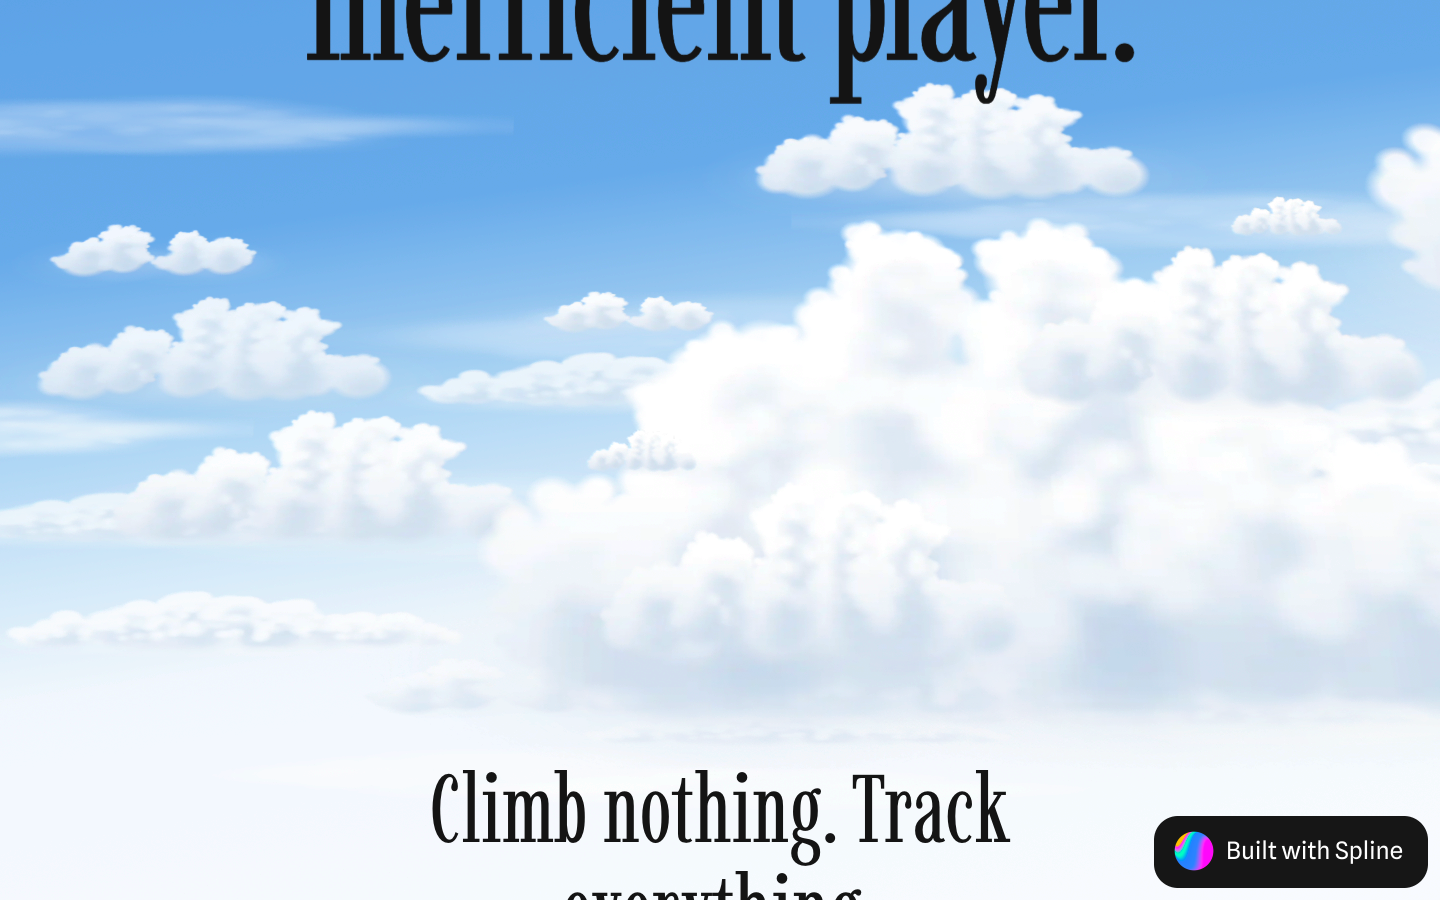
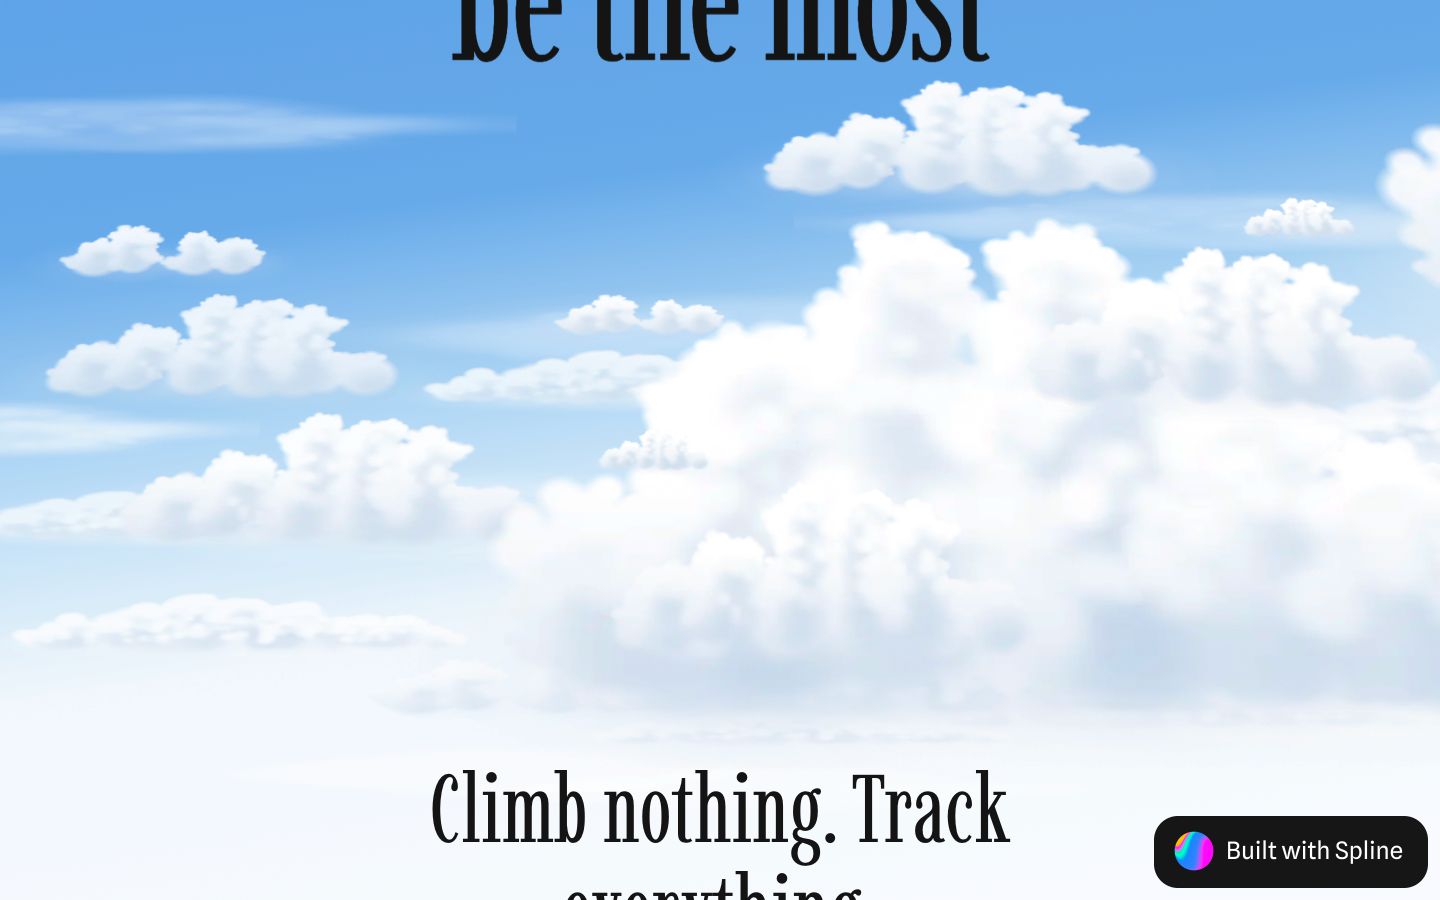
Intro: Scroll label, first line after scroll, lines held in order

diff --git a/src/intro.js b/src/intro.js
@@ -31,37 +31,78 @@ export function initIntro() {
     root.style.scrollBehavior = '';
   }
 
-  // Intro text: one part at a time, revealed when its stretch of the intro reaches the middle of the screen.
-  // The intro is split into one invisible "step" per part. An IntersectionObserver watches a thin
-  // line across the middle of the screen; whichever step crosses it decides the visible part.
-  // The reveal itself is a CSS animation (intro.css) and replays every time a part comes back.
+  // Intro text. Nothing shows at the very top except the "Scroll" label.
+  // After the first scroll the parts play strictly in order, one at a time.
+  // Each part gets its reveal plus a short hold before the next may start,
+  // even if the scrollbar is already further down. Scrolling is never blocked.
   const intro = document.getElementById('intro');
   const parts = Array.from(document.querySelectorAll('.intro__part'));
   if (intro && parts.length && !reduced) {
-    let current = -1;
-    const showPart = (index) => {
-      if (index === current) return;
+    const ms = (name) => parseFloat(getComputedStyle(root).getPropertyValue(name)) || 0;
+    const REVEAL_MS = ms('--delay-part-in') + ms('--duration-part-in');
+    const HOLD_MS = ms('--duration-part-hold');
+    const TOP_PX = 8; // closer to the top than this counts as "not scrolled yet"
+
+    let shown = -1;   // part on screen now (-1 = none, the label shows)
+    let target = -1;  // part the scroll position asks for
+    let freeAt = 0;   // time when the part on screen has had its reveal and hold
+    let timer = null;
+
+    const render = (index) => {
       parts.forEach((part, i) => {
-        part.classList.toggle('is-out', i === current);
+        part.classList.toggle('is-out', i === shown && i !== index);
         part.classList.toggle('is-in', i === index);
       });
-      current = index;
+      if (hint) hint.classList.toggle('is-hidden', index !== -1);
+      shown = index;
     };
-    const stepObserver = new IntersectionObserver((entries) => {
-      entries.forEach((entry) => {
-        if (entry.isIntersecting) showPart(Number(entry.target.dataset.part));
+
+    const advance = () => {
+      clearTimeout(timer);
+      if (target === shown) return;
+      const now = performance.now();
+      if (target < shown) {
+        // Scrolling back up: go straight there.
+        render(target);
+        freeAt = target === -1 ? now : now + REVEAL_MS + HOLD_MS;
+        return;
+      }
+      if (now < freeAt) { timer = setTimeout(advance, freeAt - now); return; }
+      render(shown + 1); // forward: one part at a time, never a jump
+      freeAt = now + REVEAL_MS + HOLD_MS;
+      if (target !== shown) timer = setTimeout(advance, REVEAL_MS + HOLD_MS);
+    };
+
+    const readScroll = () => {
+      const y = window.scrollY;
+      const height = intro.offsetHeight;
+      if (y >= height) {
+        // The intro has left the screen: nothing to play, rest on the last part.
+        clearTimeout(timer);
+        target = parts.length - 1;
+        if (shown !== target) render(target);
+        freeAt = 0;
+        return;
+      }
+      target = y < TOP_PX ? -1 : Math.min(parts.length - 1, Math.floor((y + window.innerHeight / 2) / (height / parts.length)));
+      advance();
+    };
+
+    let queued = false;
+    window.addEventListener('scroll', () => {
+      if (queued) return;
+      queued = true;
+      requestAnimationFrame(() => { queued = false; readScroll(); });
+    }, { passive: true });
+    readScroll();
+
+    // Clicking the label does what it says: scrolls a little, which starts the first part.
+    if (hint) {
+      hint.addEventListener('click', (event) => {
+        event.preventDefault();
+        window.scrollTo({ top: window.innerHeight * 0.3, behavior: 'smooth' });
       });
-    }, { rootMargin: '-50% 0px -50% 0px', threshold: 0 });
-    parts.forEach((part, i) => {
-      const step = document.createElement('div');
-      step.className = 'intro__step';
-      step.dataset.part = String(i);
-      step.style.top = `${(100 / parts.length) * i}%`;
-      step.style.height = `${100 / parts.length}%`;
-      step.setAttribute('aria-hidden', 'true');
-      intro.appendChild(step);
-      stepObserver.observe(step);
-    });
+    }
   }
 
   // Hero reached: show the nav, hide "Skip intro", remember the visit.
@@ -100,13 +141,11 @@ export function initIntro() {
     idleTimer = setTimeout(playDip, IDLE_MS);
   }
 
-  // First scroll: hide the hint and call off the dip. Reduced motion keeps the hint.
+  // First scroll: call off the dip.
   const onFirstScroll = () => {
     if (window.scrollY < 2) return;
     window.removeEventListener('scroll', onFirstScroll);
     cancelDip();
-    if (hint && !reduced) hint.classList.add('is-hidden');
   };
   window.addEventListener('scroll', onFirstScroll, { passive: true });
-  if (returning && hint && !reduced) hint.classList.add('is-hidden');
 }

diff --git a/src/styles/sections/intro.css b/src/styles/sections/intro.css
@@ -52,13 +52,13 @@
 }
 .is-past-intro .skip-intro { visibility: hidden; }
 
-/* Scroll hint: a link to #hero at the bottom of the stage */
+/* Scroll label: a small pill. Default spot is the bottom of the stage
+   (reduced motion and no JS, where the text fills the middle). */
 .intro__hint {
   position: absolute;
   left: 50%;
   bottom: var(--space-8);
   transform: translateX(-50%);
-  min-height: var(--size-touch-target);
   color: var(--color-intro-text);
   font-size: var(--text-label);
   font-weight: var(--weight-medium);
@@ -67,16 +67,17 @@
   transition: opacity var(--duration-fast) var(--ease-exit), visibility var(--duration-fast);
 }
 .intro__hint.is-hidden { opacity: 0; visibility: hidden; }
-.intro__hint-inner { display: flex; flex-direction: column; align-items: center; gap: var(--space-3); }
-.intro__hint-variant { display: flex; flex-direction: column; align-items: center; gap: var(--space-3); }
-.intro__hint-variant--touch { display: none; }
-.intro__hint svg { width: var(--size-hint-icon-w); height: var(--size-hint-icon-h); fill: none; stroke: currentColor; stroke-width: var(--size-stroke); stroke-linecap: round; stroke-linejoin: round; }
-.intro__hint .hint-dot { fill: currentColor; stroke: none; }
-
-@media (hover: none) and (pointer: coarse) {
-  .intro__hint-variant--mouse { display: none; }
-  .intro__hint-variant--touch { display: flex; }
+.intro__hint-inner {
+  display: inline-flex;
+  align-items: center;
+  gap: var(--space-2);
+  min-height: var(--size-touch-target);
+  padding: var(--space-2) var(--space-5);
+  background: var(--color-label-bg);
+  border-radius: var(--radius-chip);
+  box-shadow: var(--shadow-card);
 }
+.intro__hint svg { width: var(--size-hint-icon); height: var(--size-hint-icon); fill: none; stroke: currentColor; stroke-width: var(--size-stroke); stroke-linecap: round; stroke-linejoin: round; }
 
 @keyframes intro-fade-in { from { opacity: 0; } to { opacity: 1; } }
 @keyframes intro-part-in {
@@ -84,8 +85,7 @@
   to { opacity: 1; transform: translateY(0); filter: blur(0); }
 }
 @keyframes intro-part-out { from { opacity: 1; } to { opacity: 0; } }
-@keyframes hint-wheel { 0% { transform: translateY(0); opacity: 1; } 70% { transform: translateY(var(--size-hint-travel)); opacity: 0; } 100% { transform: translateY(0); opacity: 0; } }
-@keyframes hint-swipe { 0% { transform: translateY(var(--size-hint-travel)); opacity: 0; } 30% { opacity: 1; } 100% { transform: translateY(0); opacity: 0; } }
+@keyframes hint-float { from { transform: translateY(calc(var(--shift-hint-float) * -1)); } to { transform: translateY(var(--shift-hint-float)); } }
 
 /* Staged mode */
 @media (prefers-reduced-motion: no-preference) {
@@ -100,17 +100,11 @@
   .js .intro__part.is-in { animation: intro-part-in var(--duration-part-in) var(--ease-enter) var(--delay-part-in) both; }
   .js .intro__part.is-out { animation: intro-part-out var(--duration-part-out) var(--ease-exit) both; }
 
-  /* Invisible markers, one per part, that intro.js watches to know which part is due */
-  .intro__step { position: absolute; left: 0; width: 100%; pointer-events: none; }
-
-  /* Hint fades in after part 1 on a first visit */
-  .js:not(.intro-seen) .intro__hint-inner {
-    opacity: 0;
-    animation: intro-fade-in var(--duration-intro-hint-fade) var(--ease-standard) var(--duration-intro-hint-delay) forwards;
+  /* Scroll label: floats in the middle of the empty sky until the first scroll */
+  .js .intro__hint { bottom: auto; top: 50%; transform: translate(-50%, -50%); }
+  .js .intro__hint-inner {
+    animation:
+      intro-fade-in var(--duration-intro-hint-fade) var(--ease-standard) var(--duration-intro-hint-delay) backwards,
+      hint-float var(--duration-hint-float) ease-in-out infinite alternate;
   }
-  /* Keyboard users who Tab to the hint early see it at once */
-  .js:not(.intro-seen) .intro__hint:focus-visible .intro__hint-inner { animation: none; opacity: 1; }
-
-  .hint-dot { animation: hint-wheel var(--duration-hint-loop) var(--ease-standard) infinite; }
-  .intro__hint-variant--touch .hint-dot { animation-name: hint-swipe; }
 }

diff --git a/src/styles/tokens.css b/src/styles/tokens.css
@@ -15,6 +15,7 @@
   --color-cta-text: #141414;
   --color-focus-ring: #141414;
   --color-intro-text: #141414;      /* text on the sky; checked for AA against the scene */
+  --color-label-bg: rgba(255, 255, 255, 0.72); /* Scroll label pill over the sky */
 
   /* Type scale (fluid between phone and desktop) */
   --text-display: clamp(3.5rem, 1rem + 11vw, 12rem);     /* intro parts */
@@ -64,8 +65,9 @@
   --duration-part-out: 200ms;              /* the old part giving way */
   --duration-crossfade: 400ms;             /* static image to live scene */
   --duration-intro-hint-fade: 250ms;
-  --duration-intro-hint-delay: 1850ms;     /* part 1 reveal (0.25 + 0.8 s) + 0.8 s */
-  --duration-hint-loop: 1600ms;            /* wheel dot / swipe loop */
+  --duration-intro-hint-delay: 300ms;      /* Scroll label appears just after load */
+  --duration-hint-float: 3000ms;           /* one bob of the Scroll label */
+  --duration-part-hold: 700ms;             /* a part stays at least this long once fully shown (read by intro.js) */
   --ease-standard: cubic-bezier(0.2, 0, 0, 1);
   --ease-enter: cubic-bezier(0.22, 1, 0.36, 1);    /* fast start, soft landing */
   --ease-exit: cubic-bezier(0.4, 0, 1, 1);          /* soft start, quick leave */
@@ -77,10 +79,8 @@
   --z-skip: 20;
 
   /* Sizes */
-  --size-hint-icon-w: 24px;
-  --size-hint-icon-h: 40px;
-  --size-hint-dot: 4px;
-  --size-hint-travel: 10px;
+  --size-hint-icon: 16px;
+  --shift-hint-float: 6px;                 /* how far the Scroll label bobs */
   --size-stroke: 2px;
   --shift-button-hover: -1px;              /* button lifts a hair on hover */
   --scale-button-press: 0.98;

diff --git a/index.html b/index.html
@@ -41,21 +41,8 @@
 
           <a class="intro__hint" id="intro-hint" href="#hero">
             <span class="intro__hint-inner">
-              <span class="intro__hint-variant intro__hint-variant--mouse">
-                <svg viewBox="0 0 24 40" aria-hidden="true" focusable="false">
-                  <rect x="1" y="1" width="22" height="38" rx="11" />
-                  <circle class="hint-dot" cx="12" cy="10" r="2" />
-                </svg>
-                Scroll to start the game
-              </span>
-              <span class="intro__hint-variant intro__hint-variant--touch">
-                <svg viewBox="0 0 24 40" aria-hidden="true" focusable="false">
-                  <path d="M12 38V14" />
-                  <path d="M5 21l7-7 7 7" />
-                  <circle class="hint-dot" cx="12" cy="6" r="2" />
-                </svg>
-                Swipe up to start the game
-              </span>
+              Scroll
+              <svg viewBox="0 0 16 16" aria-hidden="true" focusable="false"><path d="M3 6l5 5 5-5" /></svg>
             </span>
           </a>
         </div>

diff --git a/design/page-spec.md b/design/page-spec.md
@@ -14,19 +14,19 @@ Scene: sky with big clouds close to the camera. The clouds drift, and move up th
   3. be the most
   4. inefficient player.
 - Top right link: Skip intro
-- Scroll hint: mouse icon + "Scroll to start the game". Phone: swipe icon + "Swipe up to start the game".
+- Scroll label: a small pill reading "Scroll" with a down arrow, floating in the center of the screen.
 
 Motion:
-- On load: part 1 is revealed the same way. Then the page waits.
+- On load: only the sky and the Scroll label. No text yet. The page waits.
+- First scroll: the label fades out and part 1 is revealed. Back at the very top, the text goes and the label returns.
 - Trigger: scroll only (wheel, swipe, arrow keys, Space). No timer advances the page.
 - The intro stays pinned while the reader scrolls through 4.4 screens. Only one part is visible at a time.
 - Each part owns a quarter of the intro. When its quarter reaches the middle of the screen, the part is revealed: it fades in, rises 30px and comes out of an 8px blur over 0.8 s. The part before it fades out in 0.2 s first.
-- The reveal is timed, not tied to scroll position, and replays every time a part comes back, in either scroll direction.
+- The parts always play in order. Each one gets its full reveal plus a 0.7 s hold before the next may start, even if the scrollbar is already further down. Scrolling itself is never blocked. Scrolling back up goes straight to the earlier part.
 - The camera descends through the clouds with scroll progress. Scrolling up reverses it.
-- Hint fades in 0.8 s after part 1, wheel dot loops, hides on first scroll.
 - After 6 s idle: the camera dips so the hero headline peeks above the bottom edge, then settles back.
-- The hint is a link to `#hero`, so click and Enter also work.
-- Return visits skip the intro. Reduced motion: all four parts shown together as static text, hint shown, no pinning.
+- Clicking the label (or Enter on it) scrolls a little, which starts part 1.
+- Return visits skip the intro. Reduced motion: all four parts shown together as static text, the label at the bottom, no pinning.
 
 ## Floating nav (appears after the intro)
 

diff --git a/design/decisions.md b/design/decisions.md
@@ -62,3 +62,9 @@
 - The scroll-tied part changes are replaced by a timed reveal (animation-on-scroll skill): fade, 30px rise and an 8px blur clearing over 0.8 s, replaying every time a part comes back. The old part fades out in 0.2 s first.
 - Built with plain CSS keyframes and an IntersectionObserver in intro.js, not the skill's Tailwind classes, because the project has no Tailwind.
 - Trade-off accepted: a fast scroll can pass a part before its reveal finishes again. Animated blur on large text is also the most expensive effect on the page.
+
+## 2026-11-16 · Intro: Scroll label and held lines
+- The screen starts empty with a small floating "Scroll" label in the center. Part 1 appears after the first scroll. Copy change: "Scroll to start the game" / "Swipe up to start the game" became "Scroll" on all devices.
+- The label replaces the bottom scroll hint. Clicking it now scrolls a little (starting part 1) instead of jumping to the hero. Skip intro still jumps to the hero.
+- Lines play in order with a minimum time on screen: reveal (1.05 s) plus a 0.7 s hold. Scroll is not locked (chosen over a scroll lock for accessibility), so a hard fling past the whole intro can still miss the last lines.
+- New tokens: --color-label-bg, --size-hint-icon, --shift-hint-float, --duration-hint-float, --duration-part-hold. Removed the mouse and swipe icon tokens.
